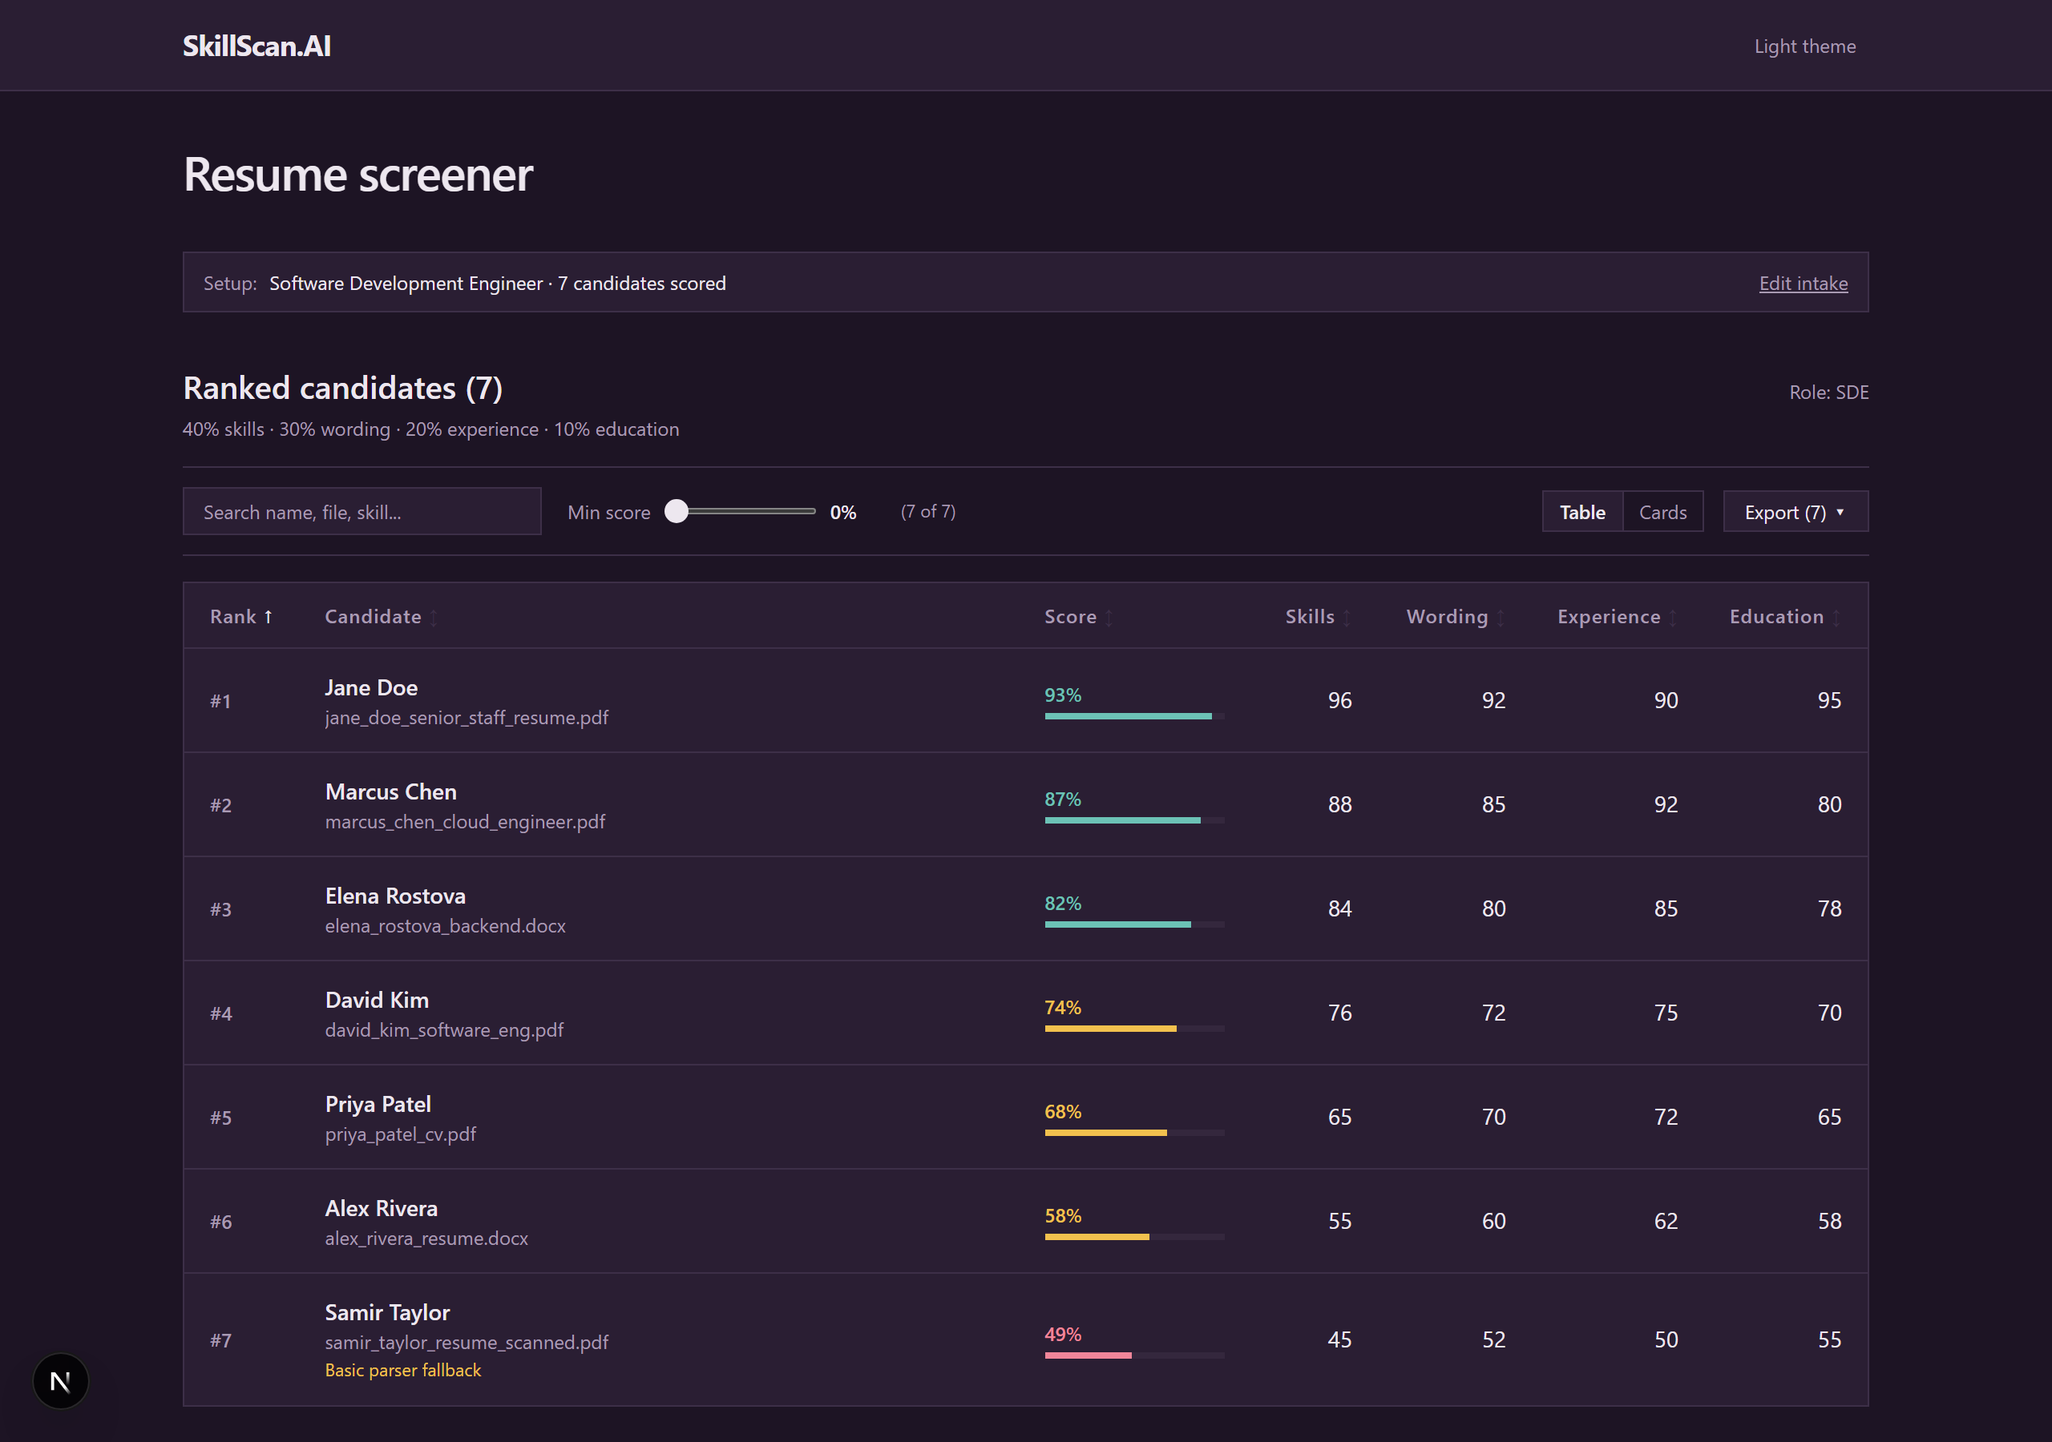
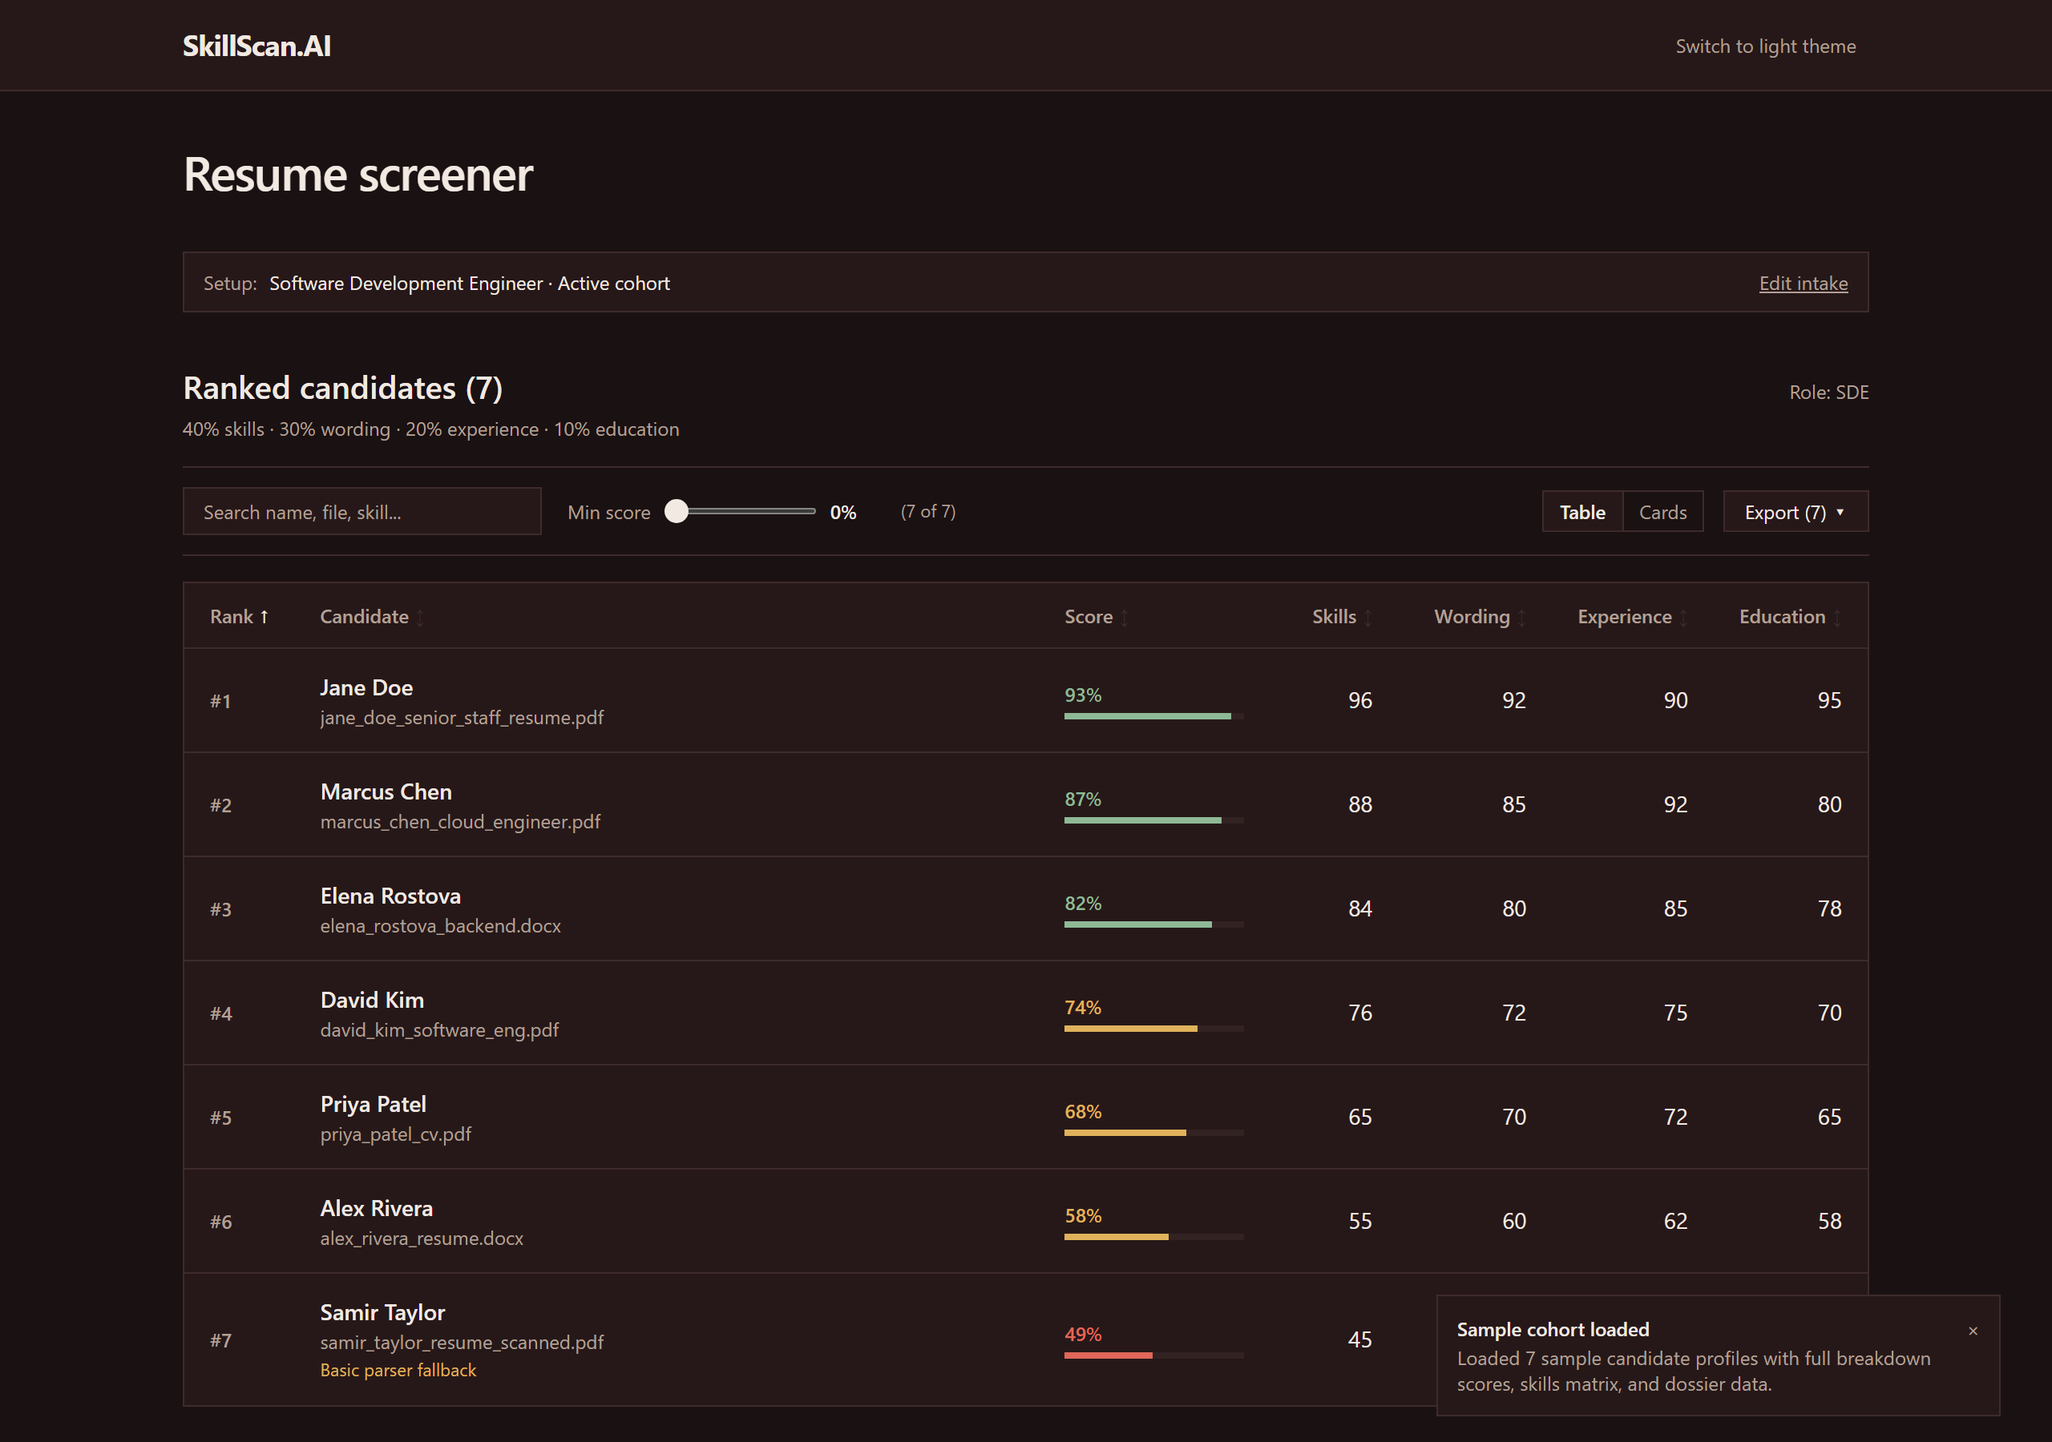
feat(palette): restyle with warm oxblood and bone palette, remove all-caps labels, and capture production screenshots

diff --git a/frontend/src/components/CandidateDrawer.tsx b/frontend/src/components/CandidateDrawer.tsx
@@ -135,7 +135,7 @@ export default function CandidateDrawer({ candidate, onClose }: CandidateDrawerP
         <div className="p-6 space-y-6 flex-1 text-sm text-[var(--ink)]">
           {/* AI error notice */}
           {candidate.ai_error && (
-            <div className="text-xs text-[var(--flag-text)] py-2 border-b border-[var(--line)]">
+            <div className="text-xs text-[var(--flag)] py-2 border-b border-[var(--line)]">
               AI extraction unavailable, used basic parser. ({candidate.ai_error})
             </div>
           )}
@@ -188,7 +188,7 @@ export default function CandidateDrawer({ candidate, onClose }: CandidateDrawerP
 
           {/* 4 Score Breakdown Parts as thin bars */}
           <div className="space-y-3 pb-5 border-b border-[var(--line)]">
-            <h3 className="text-xs uppercase text-[var(--ink-soft)] font-medium tracking-wider">
+            <h3 className="text-xs text-[var(--ink-soft)] font-medium">
               Score breakdown
             </h3>
 
@@ -260,14 +260,14 @@ export default function CandidateDrawer({ candidate, onClose }: CandidateDrawerP
           {/* Skills Breakdown */}
           <div className="space-y-4 pb-5 border-b border-[var(--line)]">
             <div>
-              <span className="block text-xs uppercase text-[var(--ink-soft)] font-medium mb-2">
+              <span className="block text-xs text-[var(--ink-soft)] font-medium mb-2">
                 Matching skills ({candidate.matching_skills?.length || 0})
               </span>
               <SkillChips skills={candidate.matching_skills || []} variant="match" />
             </div>
 
             <div>
-              <span className="block text-xs uppercase text-[var(--ink-soft)] font-medium mb-2">
+              <span className="block text-xs text-[var(--ink-soft)] font-medium mb-2">
                 Missing skills ({candidate.missing_skills?.length || 0})
               </span>
               <SkillChips skills={candidate.missing_skills || []} variant="missing" />
@@ -277,7 +277,7 @@ export default function CandidateDrawer({ candidate, onClose }: CandidateDrawerP
           {/* AI Tips / Coaching notes */}
           {tips.length > 0 && (
             <div className="space-y-2 pb-5 border-b border-[var(--line)]">
-              <h3 className="text-xs uppercase text-[var(--ink-soft)] font-medium tracking-wider">
+              <h3 className="text-xs text-[var(--ink-soft)] font-medium">
                 Review notes
               </h3>
               <ul className="space-y-1.5 text-xs text-[var(--ink-soft)] list-disc list-inside">
@@ -293,7 +293,7 @@ export default function CandidateDrawer({ candidate, onClose }: CandidateDrawerP
           {/* Experience */}
           {experiences.length > 0 && (
             <div className="space-y-2 pb-5 border-b border-[var(--line)]">
-              <h3 className="text-xs uppercase text-[var(--ink-soft)] font-medium tracking-wider">
+              <h3 className="text-xs text-[var(--ink-soft)] font-medium">
                 Experience
               </h3>
               <div className="space-y-2 text-xs text-[var(--ink)]">
@@ -309,7 +309,7 @@ export default function CandidateDrawer({ candidate, onClose }: CandidateDrawerP
           {/* Education */}
           {educations.length > 0 && (
             <div className="space-y-2 pb-5 border-b border-[var(--line)]">
-              <h3 className="text-xs uppercase text-[var(--ink-soft)] font-medium tracking-wider">
+              <h3 className="text-xs text-[var(--ink-soft)] font-medium">
                 Education
               </h3>
               <div className="space-y-1.5 text-xs text-[var(--ink)]">
@@ -323,7 +323,7 @@ export default function CandidateDrawer({ candidate, onClose }: CandidateDrawerP
           {/* Projects */}
           {projects.length > 0 && (
             <div className="space-y-2">
-              <h3 className="text-xs uppercase text-[var(--ink-soft)] font-medium tracking-wider">
+              <h3 className="text-xs text-[var(--ink-soft)] font-medium">
                 Projects
               </h3>
               <div className="space-y-1.5 text-xs text-[var(--ink)]">

diff --git a/frontend/src/components/AnalysisForm.tsx b/frontend/src/components/AnalysisForm.tsx
@@ -24,7 +24,6 @@ interface AnalysisFormProps {
   isValid: boolean;
   validationReason: string | null;
   onRunAnalysis: () => void;
-  onLoadSample: () => void;
   hasResults: boolean;
   onRejectedFiles: (files: string[]) => void;
 }
@@ -47,7 +46,6 @@ export default function AnalysisForm({
   isValid,
   validationReason,
   onRunAnalysis,
-  onLoadSample,
   hasResults,
   onRejectedFiles,
 }: AnalysisFormProps) {
@@ -65,7 +63,7 @@ export default function AnalysisForm({
         <div className="flex items-center gap-2 text-[var(--ink)]">
           <span className="text-[var(--ink-soft)]">Setup:</span>
           <span>
-            {selectedRoleLabel} · {managedFiles.length > 0 ? `${managedFiles.length} resumes staged` : "7 candidates scored"}
+            {selectedRoleLabel} · {managedFiles.length > 0 ? `${managedFiles.length} resumes staged` : "Active cohort"}
           </span>
         </div>
         <button
@@ -82,7 +80,7 @@ export default function AnalysisForm({
   return (
     <section className="border border-[var(--line)] bg-[var(--surface)] p-4 sm:p-5 space-y-4">
       <div className="flex items-center justify-between">
-        <h2 className="text-sm font-medium text-[var(--ink)] uppercase tracking-wider">
+        <h2 className="text-sm font-medium text-[var(--ink)]">
           Intake setup
         </h2>
         {hasResults && (
@@ -97,7 +95,7 @@ export default function AnalysisForm({
       </div>
 
       <div className="grid grid-cols-1 md:grid-cols-2 gap-4">
-        {/* Left Column: Role & Resumes */}
+        {/* Left column: Role & Resumes */}
         <div className="space-y-3">
           <div>
             <label htmlFor="role-select" className="block text-xs font-medium text-[var(--ink-soft)] mb-1">
@@ -129,7 +127,7 @@ export default function AnalysisForm({
           </div>
         </div>
 
-        {/* Right Column: Job Description */}
+        {/* Right column: Job Description */}
         <div>
           <JobDescriptionInput
             mode={jdInputMode}
@@ -164,21 +162,12 @@ export default function AnalysisForm({
       )}
 
       {/* Button Row: Exactly ONE primary button */}
-      <div className="pt-2 border-t border-[var(--line)] flex flex-wrap items-center justify-between gap-3">
-        <button
-          type="button"
-          onClick={onLoadSample}
-          disabled={analyzing}
-          className="text-xs text-[var(--ink-soft)] hover:text-[var(--ink)] underline cursor-pointer"
-        >
-          Try sample data
-        </button>
-
+      <div className="pt-2 border-t border-[var(--line)] flex items-center justify-end">
         <button
           type="button"
           onClick={onRunAnalysis}
           disabled={!isValid || analyzing}
-          className="bg-[var(--ink)] text-[var(--surface)] hover:opacity-90 disabled:opacity-40 text-xs font-medium py-2 px-4 transition cursor-pointer"
+          className="bg-[var(--ink)] text-[var(--ground)] hover:opacity-90 disabled:opacity-45 text-xs font-medium py-2 px-4 transition cursor-pointer disabled:cursor-not-allowed"
         >
           {analyzing ? "Scoring resumes..." : managedFiles.length > 0 ? `Rank ${managedFiles.length} candidates` : "Rank candidates"}
         </button>

diff --git a/frontend/src/components/CandidateTable.tsx b/frontend/src/components/CandidateTable.tsx
@@ -16,7 +16,7 @@ export function getScoreColor(score: number): { textClass: string; barColor: str
     return { textClass: "text-[var(--match)]", barColor: "var(--match)" };
   }
   if (score >= 50) {
-    return { textClass: "text-[var(--flag-text)]", barColor: "var(--flag)" };
+    return { textClass: "text-[var(--flag)]", barColor: "var(--flag)" };
   }
   return { textClass: "text-[var(--gap)]", barColor: "var(--gap)" };
 }
@@ -45,7 +45,7 @@ export default function CandidateTable({
       <div className="hidden sm:block overflow-x-auto">
         <table className="w-full text-left text-sm tabular-nums border-collapse">
           <thead>
-            <tr className="border-b border-[var(--line)] text-xs text-[var(--ink-soft)] uppercase tracking-wider sticky top-0 bg-[var(--surface)] z-10">
+            <tr className="border-b border-[var(--line)] text-xs text-[var(--ink-soft)] sticky top-0 bg-[var(--surface)] z-10">
               <th scope="col" className="py-3 px-4 w-14 font-medium">
                 <button
                   type="button"
@@ -145,7 +145,7 @@ export default function CandidateTable({
                       {c.filename}
                     </div>
                     {c.ai_error && (
-                      <div className="text-[11px] text-[var(--flag-text)] mt-0.5">
+                      <div className="text-[11px] text-[var(--flag)] mt-0.5">
                         Basic parser fallback
                       </div>
                     )}
@@ -223,25 +223,25 @@ export default function CandidateTable({
               {/* Sub-scores 4 columns */}
               <div className="grid grid-cols-4 gap-1 text-[11px] text-[var(--ink-soft)] pt-1 border-t border-[var(--line)]/40">
                 <div>
-                  <span className="block text-[10px] uppercase">Skills</span>
+                  <span className="block text-[10px]">Skills</span>
                   <span className="text-[var(--ink)] font-medium">
                     {Math.round(c.skills_match ?? 0)}
                   </span>
                 </div>
                 <div>
-                  <span className="block text-[10px] uppercase">Wording</span>
+                  <span className="block text-[10px]">Wording</span>
                   <span className="text-[var(--ink)] font-medium">
                     {Math.round(c.semantic_similarity ?? 0)}
                   </span>
                 </div>
                 <div>
-                  <span className="block text-[10px] uppercase">Exp</span>
+                  <span className="block text-[10px]">Exp</span>
                   <span className="text-[var(--ink)] font-medium">
                     {Math.round(c.experience_relevance ?? 0)}
                   </span>
                 </div>
                 <div>
-                  <span className="block text-[10px] uppercase">Edu</span>
+                  <span className="block text-[10px]">Edu</span>
                   <span className="text-[var(--ink)] font-medium">
                     {Math.round(c.education_relevance ?? 0)}
                   </span>

diff --git a/frontend/src/app/globals.css b/frontend/src/app/globals.css
@@ -13,55 +13,51 @@
 }
 
 :root {
-  --ground: #ECEFEA;
-  --surface: #F8FAF7;
-  --ink: #2B1B34;
-  --ink-soft: #6B5E73;
-  --line: #D3D9D2;
-  --match: #2E7D74;
-  --gap: #B5334A;
-  --flag: #E0A526;
-  --flag-text: #835B07; /* WCAG AA accessible contrast for text on Chalk surface */
+  --ground: #EEE7E6;
+  --surface: #FAF6F5;
+  --ink: #2A1415;
+  --ink-soft: #6B5456;
+  --line: #D9CCCB;
+  --match: #3F6E49;
+  --gap: #A12D2D;
+  --flag: #8A5F0C;
 }
 
 @media (prefers-color-scheme: dark) {
   :root:not([data-theme="light"]) {
-    --ground: #1D1424;
-    --surface: #2A1E33;
-    --ink: #EDE7EF;
-    --ink-soft: #A99BB3;
-    --line: #3D2F48;
-    --match: #6CC2B6;
-    --gap: #F0869A;
-    --flag: #F2C14E;
-    --flag-text: #F2C14E;
+    --ground: #1A1112;
+    --surface: #261819;
+    --ink: #F1E9E2;
+    --ink-soft: #B3A097;
+    --line: #3E2B2C;
+    --match: #8FB996;
+    --gap: #E0675A;
+    --flag: #E0B25B;
   }
 }
 
 :root[data-theme="dark"],
 .dark {
-  --ground: #1D1424;
-  --surface: #2A1E33;
-  --ink: #EDE7EF;
-  --ink-soft: #A99BB3;
-  --line: #3D2F48;
-  --match: #6CC2B6;
-  --gap: #F0869A;
-  --flag: #F2C14E;
-  --flag-text: #F2C14E;
+  --ground: #1A1112;
+  --surface: #261819;
+  --ink: #F1E9E2;
+  --ink-soft: #B3A097;
+  --line: #3E2B2C;
+  --match: #8FB996;
+  --gap: #E0675A;
+  --flag: #E0B25B;
 }
 
 :root[data-theme="light"],
 .light {
-  --ground: #ECEFEA;
-  --surface: #F8FAF7;
-  --ink: #2B1B34;
-  --ink-soft: #6B5E73;
-  --line: #D3D9D2;
-  --match: #2E7D74;
-  --gap: #B5334A;
-  --flag: #E0A526;
-  --flag-text: #835B07;
+  --ground: #EEE7E6;
+  --surface: #FAF6F5;
+  --ink: #2A1415;
+  --ink-soft: #6B5456;
+  --line: #D9CCCB;
+  --match: #3F6E49;
+  --gap: #A12D2D;
+  --flag: #8A5F0C;
 }
 
 * {
@@ -83,7 +79,7 @@ table,
   font-variant-numeric: tabular-nums;
 }
 
-/* Accessible focus visible */
+/* Accessible focus visible: 2px --match, 2px offset */
 :focus-visible {
   outline: 2px solid var(--match);
   outline-offset: 2px;
@@ -114,4 +110,17 @@ table,
 }
 ::-webkit-scrollbar-thumb:hover {
   background: var(--ink-soft);
+}
+
+@keyframes indeterminate {
+  0% {
+    transform: translateX(-100%);
+  }
+  100% {
+    transform: translateX(350%);
+  }
+}
+
+.animate-indeterminate {
+  animation: indeterminate 1.5s infinite ease-in-out;
 }

diff --git a/frontend/src/components/JobDescriptionInput.tsx b/frontend/src/components/JobDescriptionInput.tsx
@@ -31,26 +31,25 @@ export default function JobDescriptionInput({
           Job description {isCustomRole && <span className="text-[var(--gap)]">*</span>}
         </label>
 
-        {/* Quiet text tabs */}
-        <div className="flex items-center gap-2">
+        {/* Tab switchers with --flag underline for active state */}
+        <div className="flex items-center gap-3">
           <button
             type="button"
             onClick={() => onModeChange("paste")}
-            className={`cursor-pointer ${
+            className={`pb-0.5 cursor-pointer transition ${
               mode === "paste"
-                ? "text-[var(--ink)] font-medium underline underline-offset-4"
+                ? "text-[var(--ink)] font-medium border-b-2 border-[var(--flag)]"
                 : "text-[var(--ink-soft)] hover:text-[var(--ink)]"
             }`}
           >
             Paste
           </button>
-          <span className="text-[var(--line)]">/</span>
           <button
             type="button"
             onClick={() => onModeChange("upload")}
-            className={`cursor-pointer ${
+            className={`pb-0.5 cursor-pointer transition ${
               mode === "upload"
-                ? "text-[var(--ink)] font-medium underline underline-offset-4"
+                ? "text-[var(--ink)] font-medium border-b-2 border-[var(--flag)]"
                 : "text-[var(--ink-soft)] hover:text-[var(--ink)]"
             }`}
           >

diff --git a/frontend/src/components/HomeClient.tsx b/frontend/src/components/HomeClient.tsx
@@ -66,7 +66,7 @@ export default function HomeClient() {
       downloadBlob(blob, filename);
       addToast(
         "success",
-        `Exported ${filteredResults.length} candidates as ${kind.toUpperCase()}.`,
+        `Exported ${filteredResults.length} candidates as ${kind === "csv" ? "CSV" : "Excel"}.`,
         "Export complete"
       );
     } catch (err) {
@@ -114,7 +114,6 @@ export default function HomeClient() {
           isValid={isValid}
           validationReason={validationReason}
           onRunAnalysis={runAnalysis}
-          onLoadSample={loadSampleData}
           hasResults={results.length > 0}
           onRejectedFiles={handleRejectedFiles}
         />

diff --git a/frontend/src/components/Header.tsx b/frontend/src/components/Header.tsx
@@ -15,10 +15,10 @@ export default function Header() {
         <button
           type="button"
           onClick={toggleTheme}
-          aria-label={`Switch to ${resolvedTheme === "dark" ? "light" : "dark"} theme`}
+          aria-label={resolvedTheme === "dark" ? "Switch to light theme" : "Switch to dark theme"}
           className="text-xs text-[var(--ink-soft)] hover:text-[var(--ink)] transition py-1 px-2 cursor-pointer"
         >
-          {resolvedTheme === "dark" ? "Light theme" : "Dark theme"}
+          {resolvedTheme === "dark" ? "Switch to light theme" : "Switch to dark theme"}
         </button>
       </div>
     </header>

diff --git a/frontend/src/components/CandidateCard.tsx b/frontend/src/components/CandidateCard.tsx
@@ -38,7 +38,7 @@ export default function CandidateCard({ candidate, onSelect }: CandidateCardProp
       </div>
 
       {candidate.ai_error && (
-        <div className="text-[11px] text-[var(--flag-text)]">
+        <div className="text-[11px] text-[var(--flag)]">
           Basic parser fallback
         </div>
       )}
